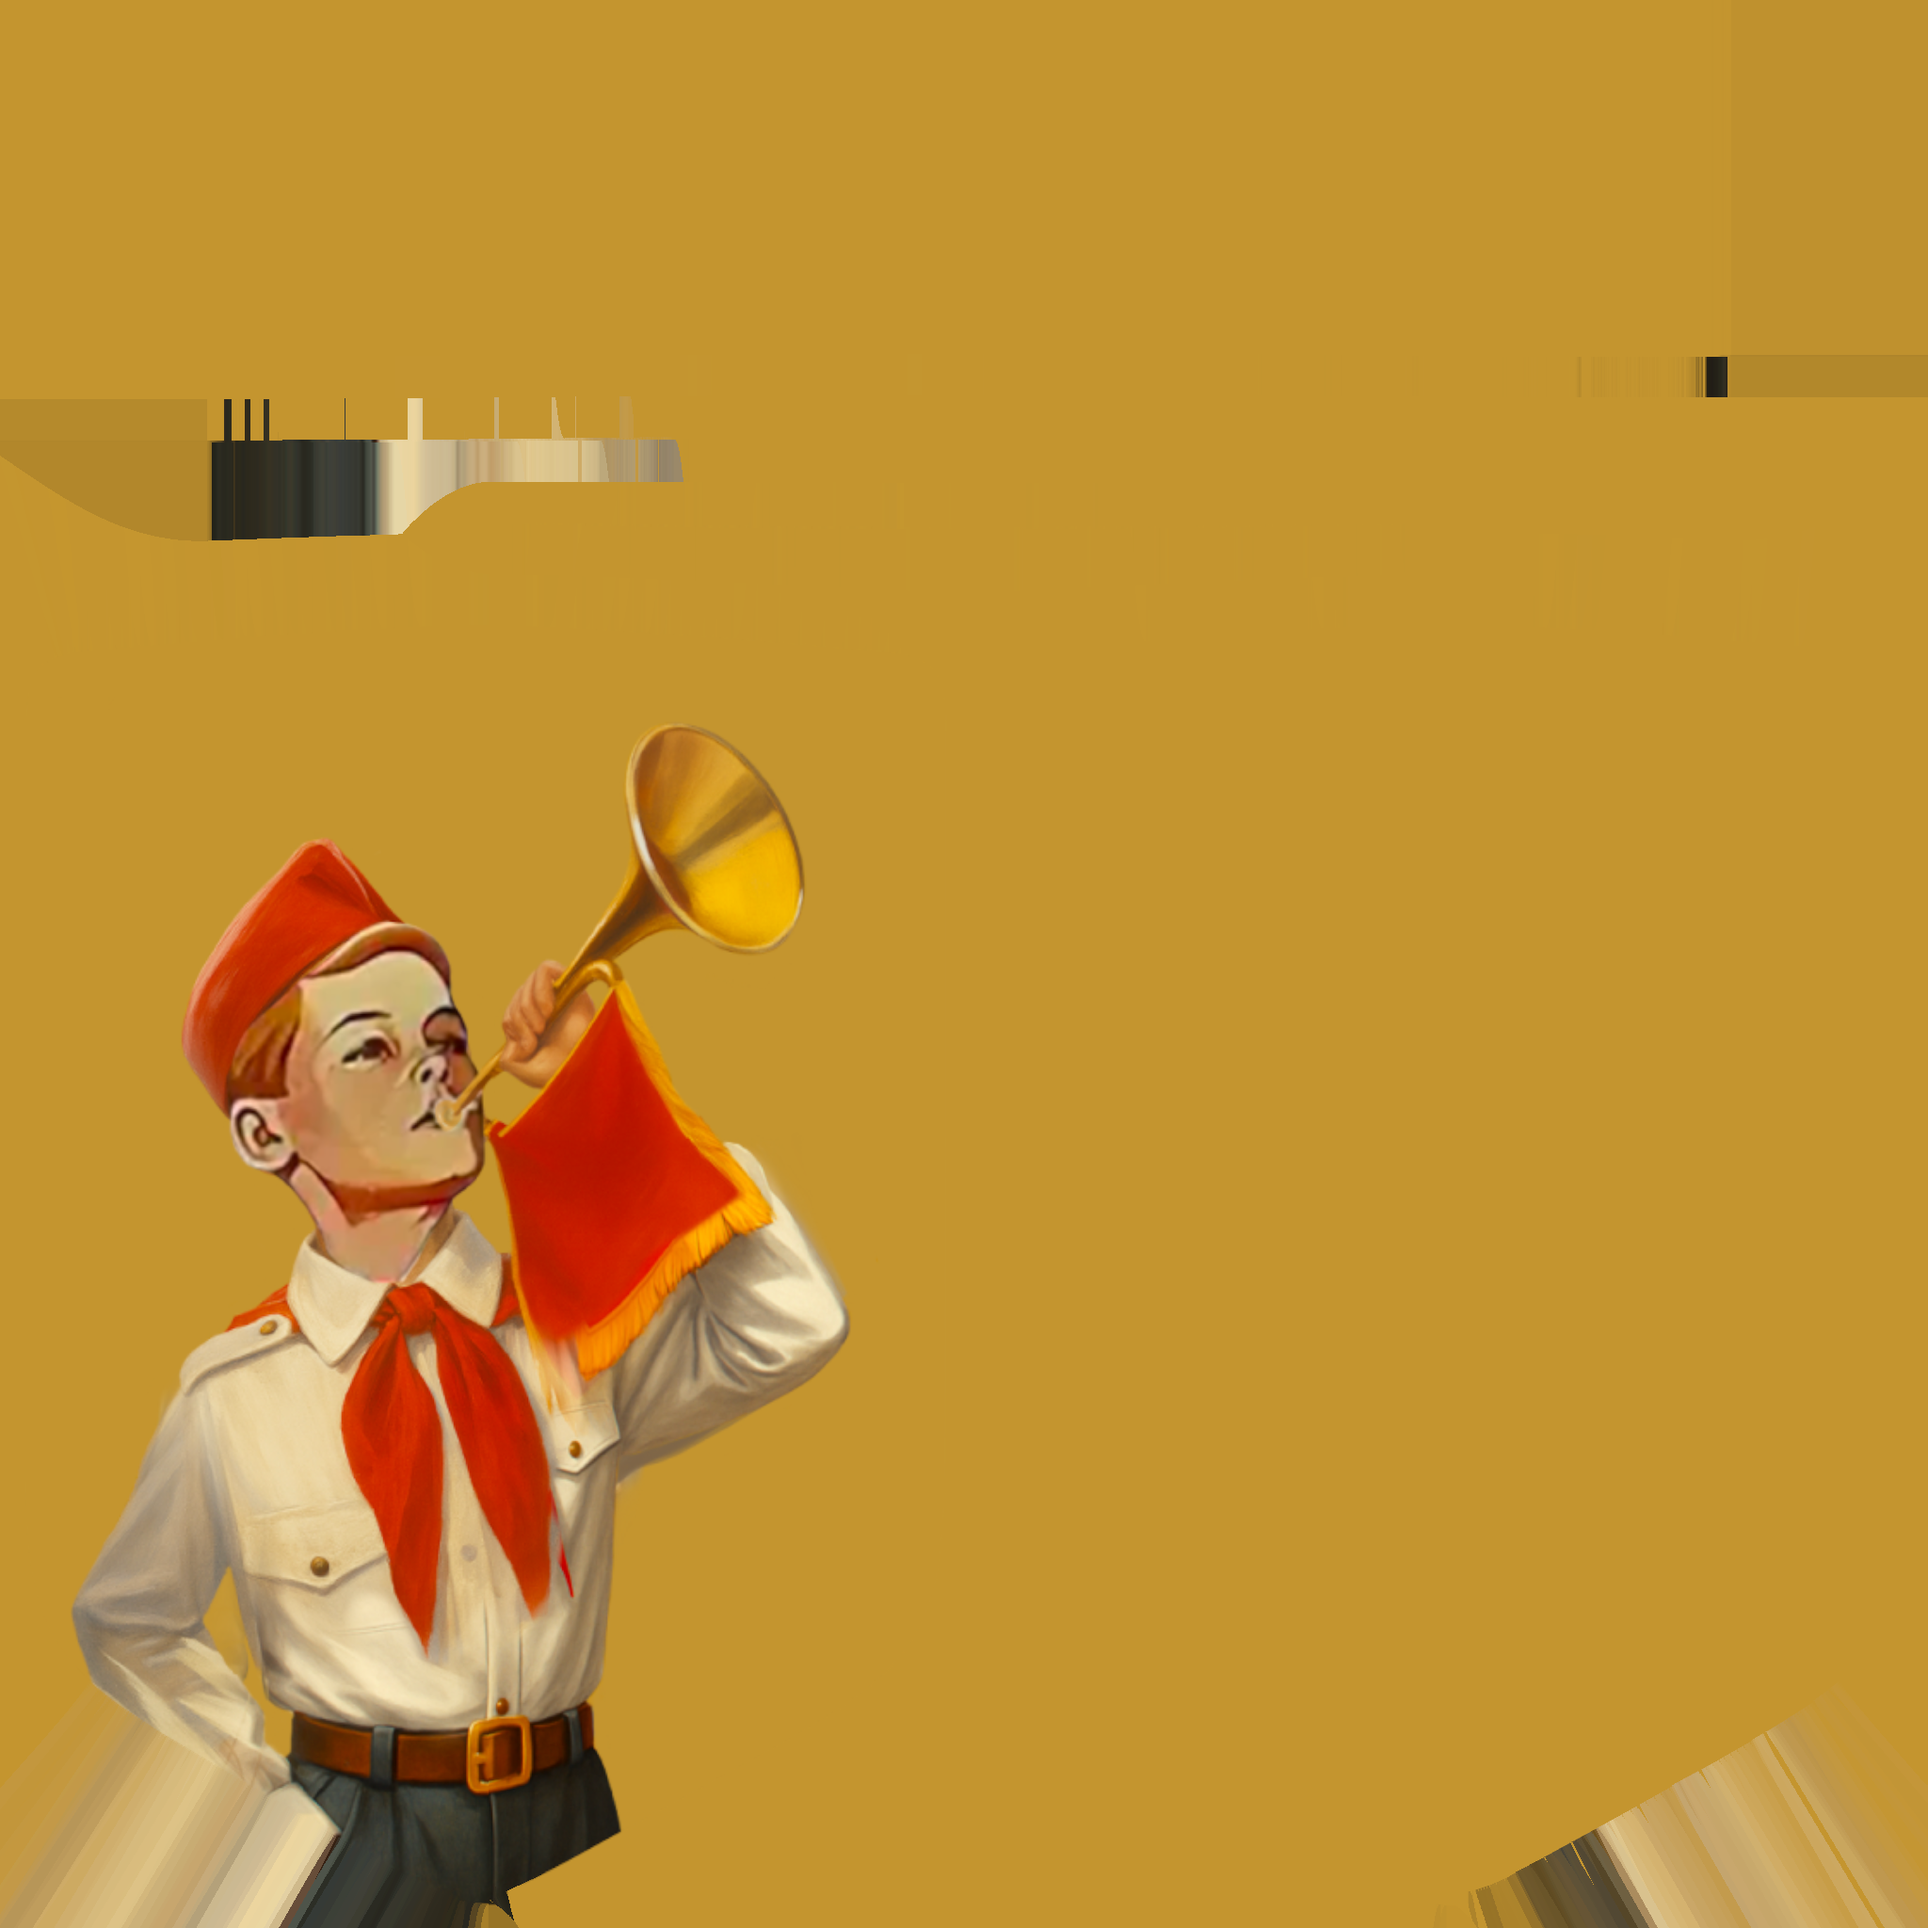
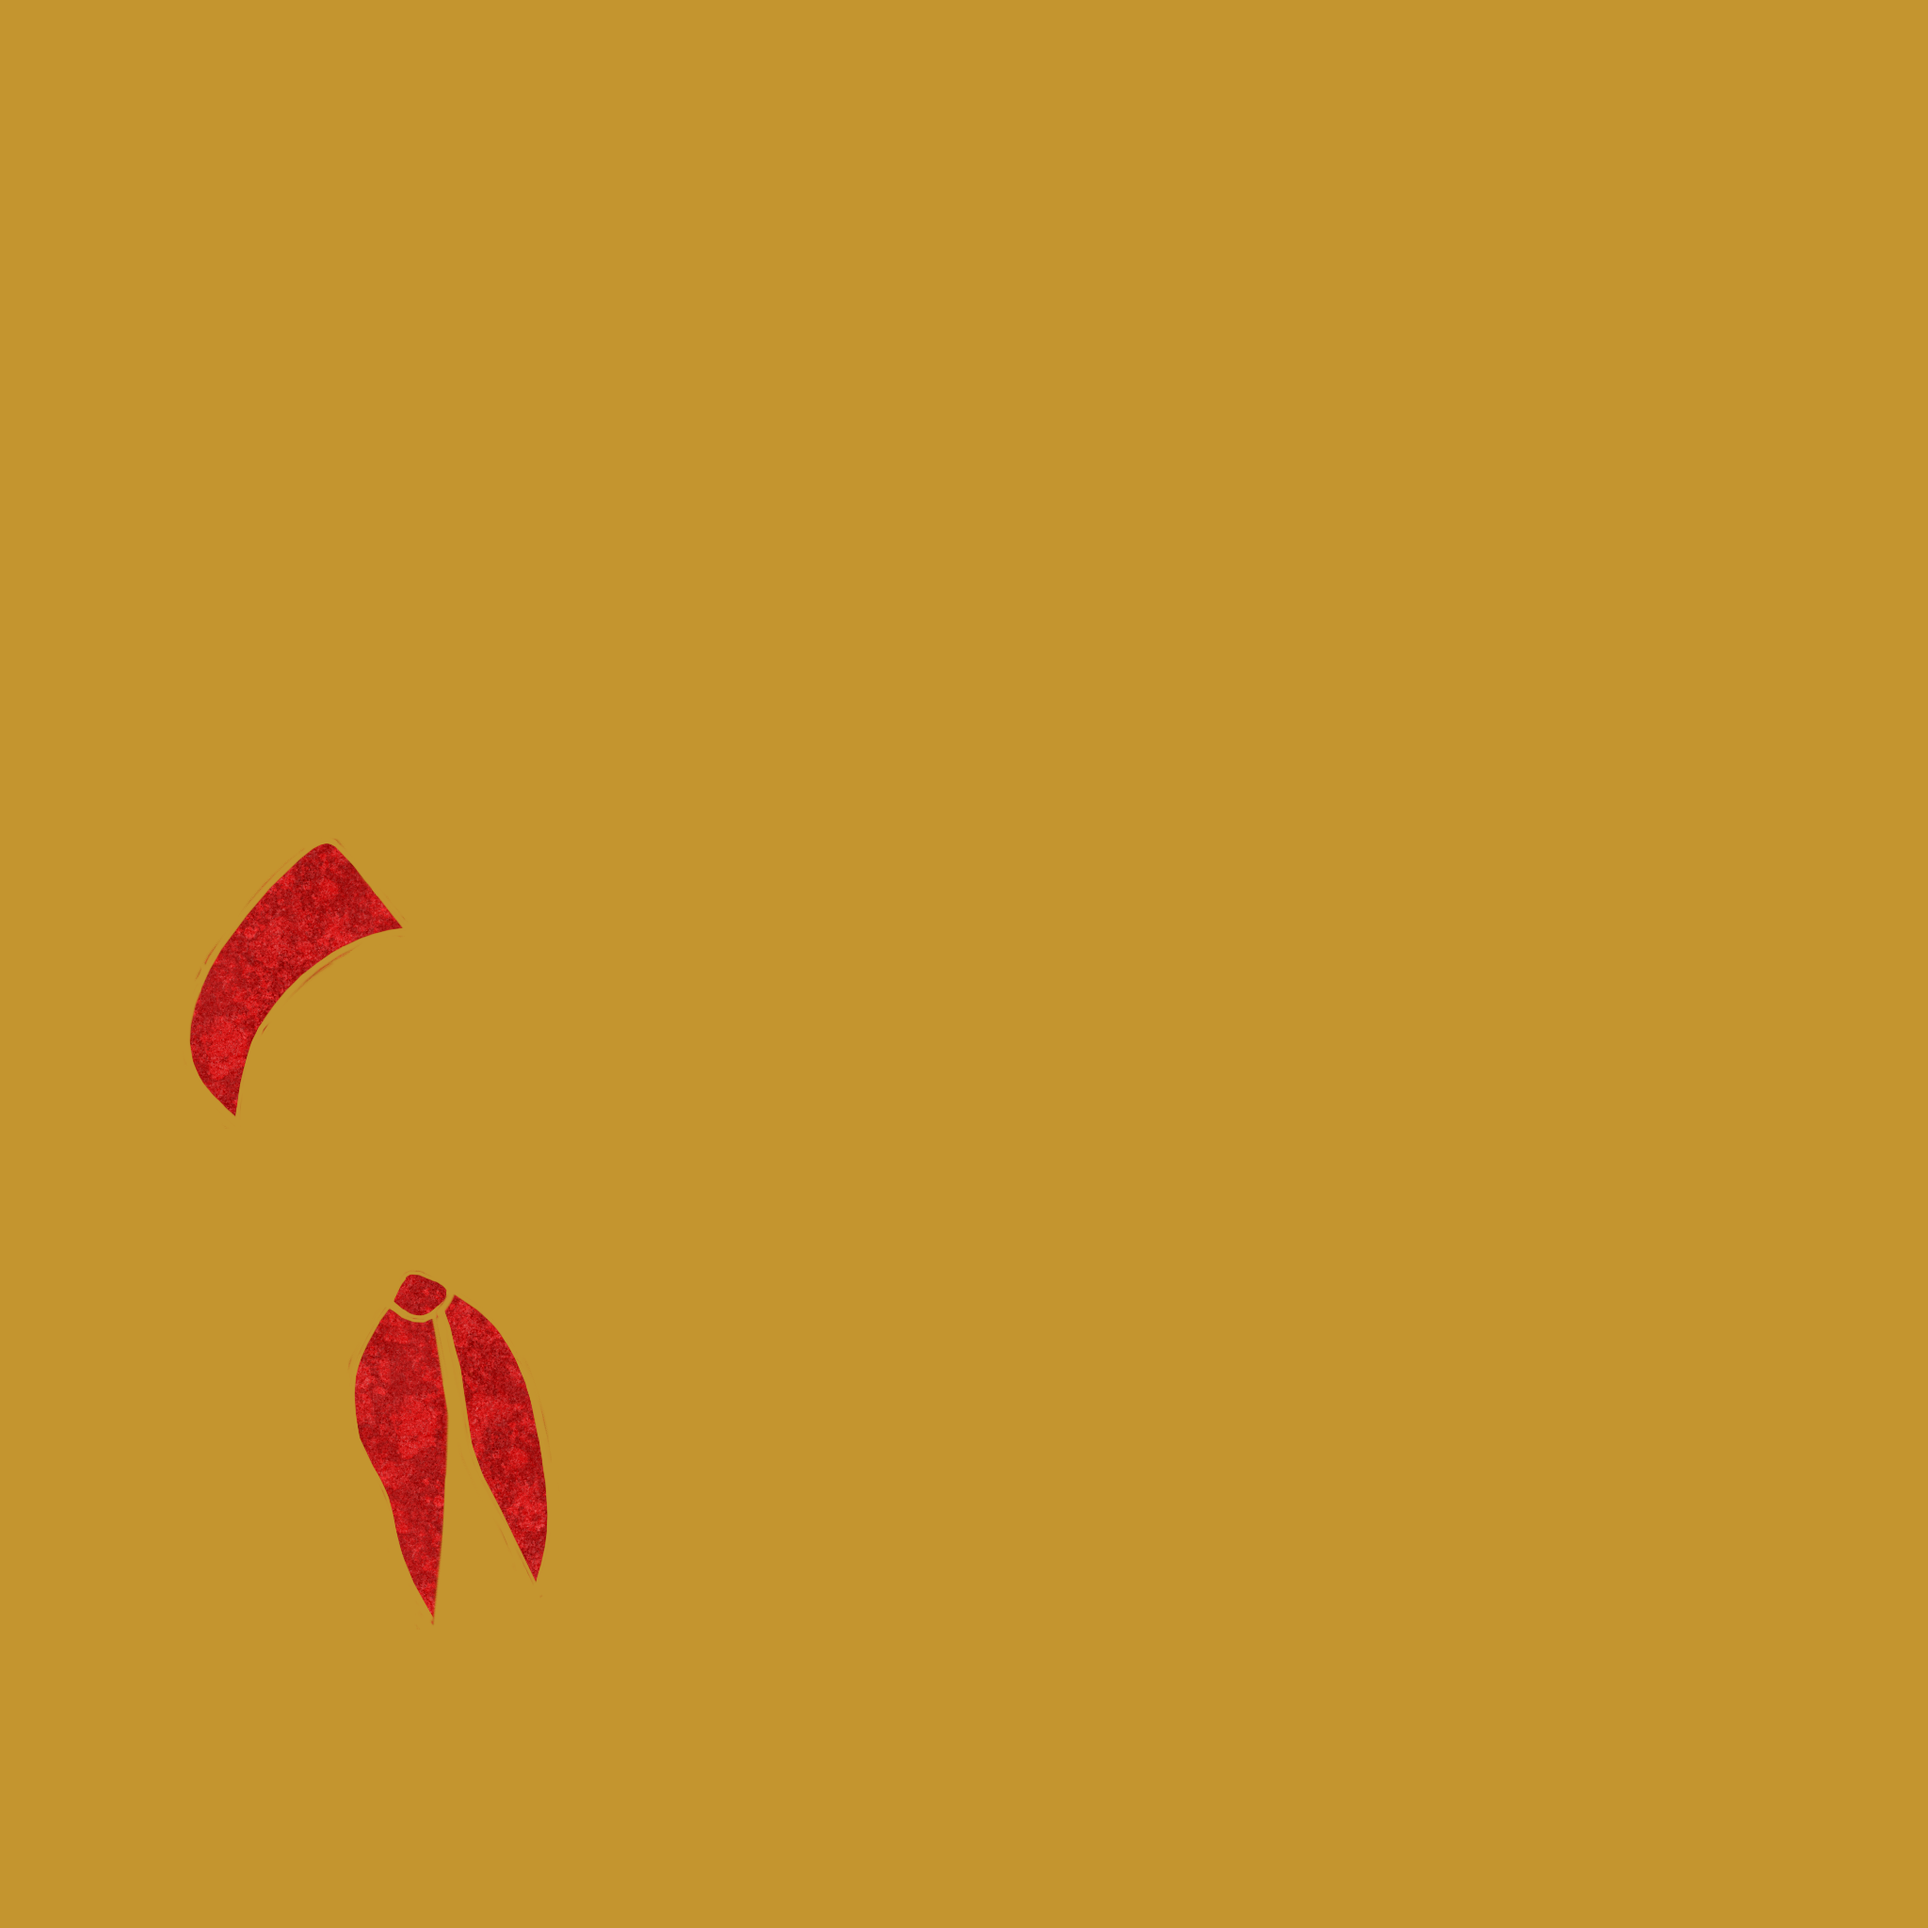
Add real decal with adapt design

diff --git a/client/src/components/RewardViewer/RewardViewer.tsx b/client/src/components/RewardViewer/RewardViewer.tsx
@@ -14,7 +14,8 @@ import {
   MeshBuilder,
   StandardMaterial,
   Color3,
-  HDRCubeTexture
+  HDRCubeTexture,
+  Texture
 } from '@babylonjs/core';
 import { GLTFFileLoader } from '@babylonjs/loaders';
 import { RewardViewerComponentProps } from './types';
@@ -151,18 +152,33 @@ const RewardViewerComponent: React.FC<RewardViewerComponentProps> = ({
               }
             }
 
-            // Создаем текстуру с черным текстом
-            const decalTexture = new DynamicTexture('decalTexture', 512, scene);
-            const textureContext = decalTexture.getContext() as CanvasRenderingContext2D;
+            // Создаем комбинированную текстуру с настоящим SVG и именем пользователя
+            const combinedTexture = new DynamicTexture('combinedTexture', 1024, scene);
+            const textureContext = combinedTexture.getContext() as CanvasRenderingContext2D;
             
-            textureContext.clearRect(0, 0, 512, 512);
-            textureContext.fillStyle = 'black';
-            textureContext.font = 'bold 24px Arial';
-            textureContext.textAlign = 'center';
-            textureContext.textBaseline = 'middle';
-            textureContext.fillText(userName, 256, 256);
+            // Прозрачный фон
+            textureContext.clearRect(0, 0, 1024, 1024);
             
-            decalTexture.update();
+            
+            // Загружаем SVG изображение
+            const svgImage = new Image();
+            svgImage.onload = () => {
+              // Рисуем SVG
+              const svgWidth = 288;
+              const svgHeight = 98;
+              const centerX = (1024 - svgWidth) / 2; // Центрируем по горизонтали
+              textureContext.drawImage(svgImage, centerX, 500, svgWidth, svgHeight);
+              
+              // Добавляем имя пользователя снизу
+              textureContext.fillStyle = '#251C1C';
+              textureContext.font = 'bold 48px "DIN Condensed", Arial';
+              textureContext.textAlign = 'center';
+              textureContext.textBaseline = 'middle';
+              textureContext.fillText(userName.toUpperCase(), 512, 650);
+              
+              combinedTexture.update();
+            };
+            svgImage.src = '/models/rewards/pioneer/decal.svg';
 
             // Создаем decalMap и рендерим декаль
             if (targetMesh.getTotalVertices() > 0 && targetMesh.material) {
@@ -174,8 +190,8 @@ const RewardViewerComponent: React.FC<RewardViewerComponentProps> = ({
                 material.decalMap.isEnabled = true;
               }
 
-              // Рендерим статичную декаль
-              targetMesh.decalMap.renderTexture(decalTexture, new Vector3(0, 0, 0), new Vector3(0, 0, 1), new Vector3(0.3, 0.3, 0.3));
+              // Рендерим комбинированную декаль
+              targetMesh.decalMap.renderTexture(combinedTexture, new Vector3(0, 0, 0), new Vector3(0, 0, 1), new Vector3(0.4, 0.4, 0.4));
             }
           }
 
@@ -202,12 +218,12 @@ const RewardViewerComponent: React.FC<RewardViewerComponentProps> = ({
             let currentAlpha = startAlpha + (endAlpha - startAlpha) * easeProgress;
             
             // Добавляем отскок по вращению в последние 20% анимации (после полного приближения)
-            if (progress > 0.8) {
-              const bounceProgress = (progress - 0.8) / 0.2; // 0 до 1 в последние 20%
-              // Один плавный отскок
-              const bounce = Math.sin(bounceProgress * Math.PI) * 0.1 * (1 - bounceProgress);
-              currentAlpha += bounce;
-            }
+            // if (progress > 0.8) {
+            //   const bounceProgress = (progress - 0.8) / 0.2; // 0 до 1 в последние 20%
+            //   // Один плавный отскок
+            //   const bounce = Math.sin(bounceProgress * Math.PI) * 0.1 * (1 - bounceProgress);
+            //   currentAlpha += bounce;
+            // }
             
             camera.alpha = currentAlpha;
             
